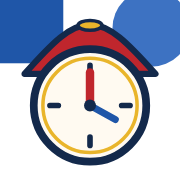
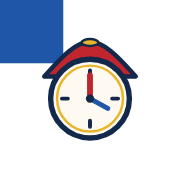
Add files via upload

diff --git a/sw.js b/sw.js
@@ -1,6 +1,6 @@
 // Mode hors ligne : garde une copie de l'appli dans le téléphone.
 // Pour publier une mise à jour, change le numéro de version ci-dessous.
-const CACHE = "heures-uzi-2026-11-13j";
+const CACHE = "heures-uzi-2026-11-13k";
 const FILES = [
   "./",
   "./index.html",
